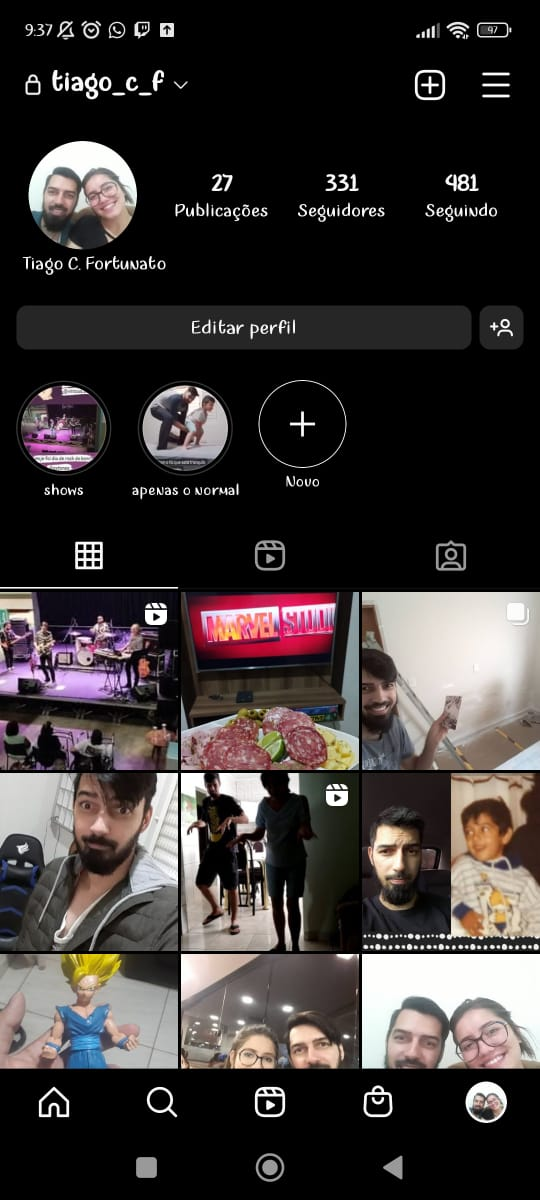
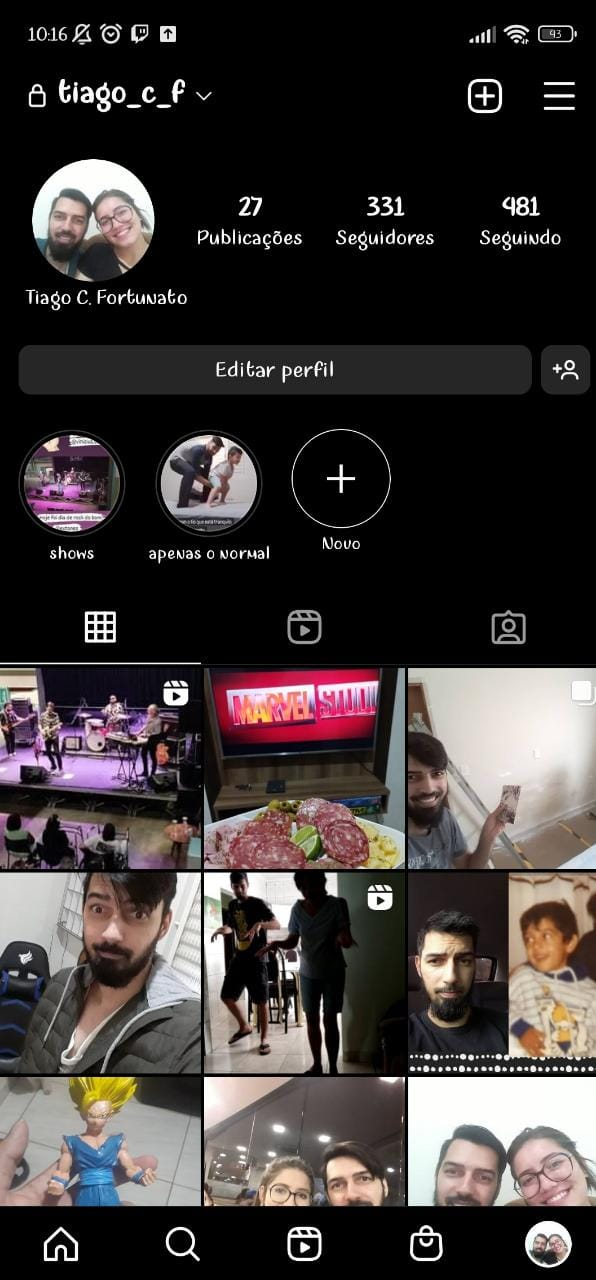
att

diff --git a/instagram.html b/instagram.html
@@ -8,7 +8,7 @@
     <title>Instagram</title>
 </head>
 <body>
-    <img src="imagens/tela-instagram.jpg" alt="Instagram">
+    <img src="imagens/tela-instagram.jpeg" alt="Instagram">
     <a href="https://www.instagram.com/tiago_c_f/">ACESSE</a>
     
 </body>
